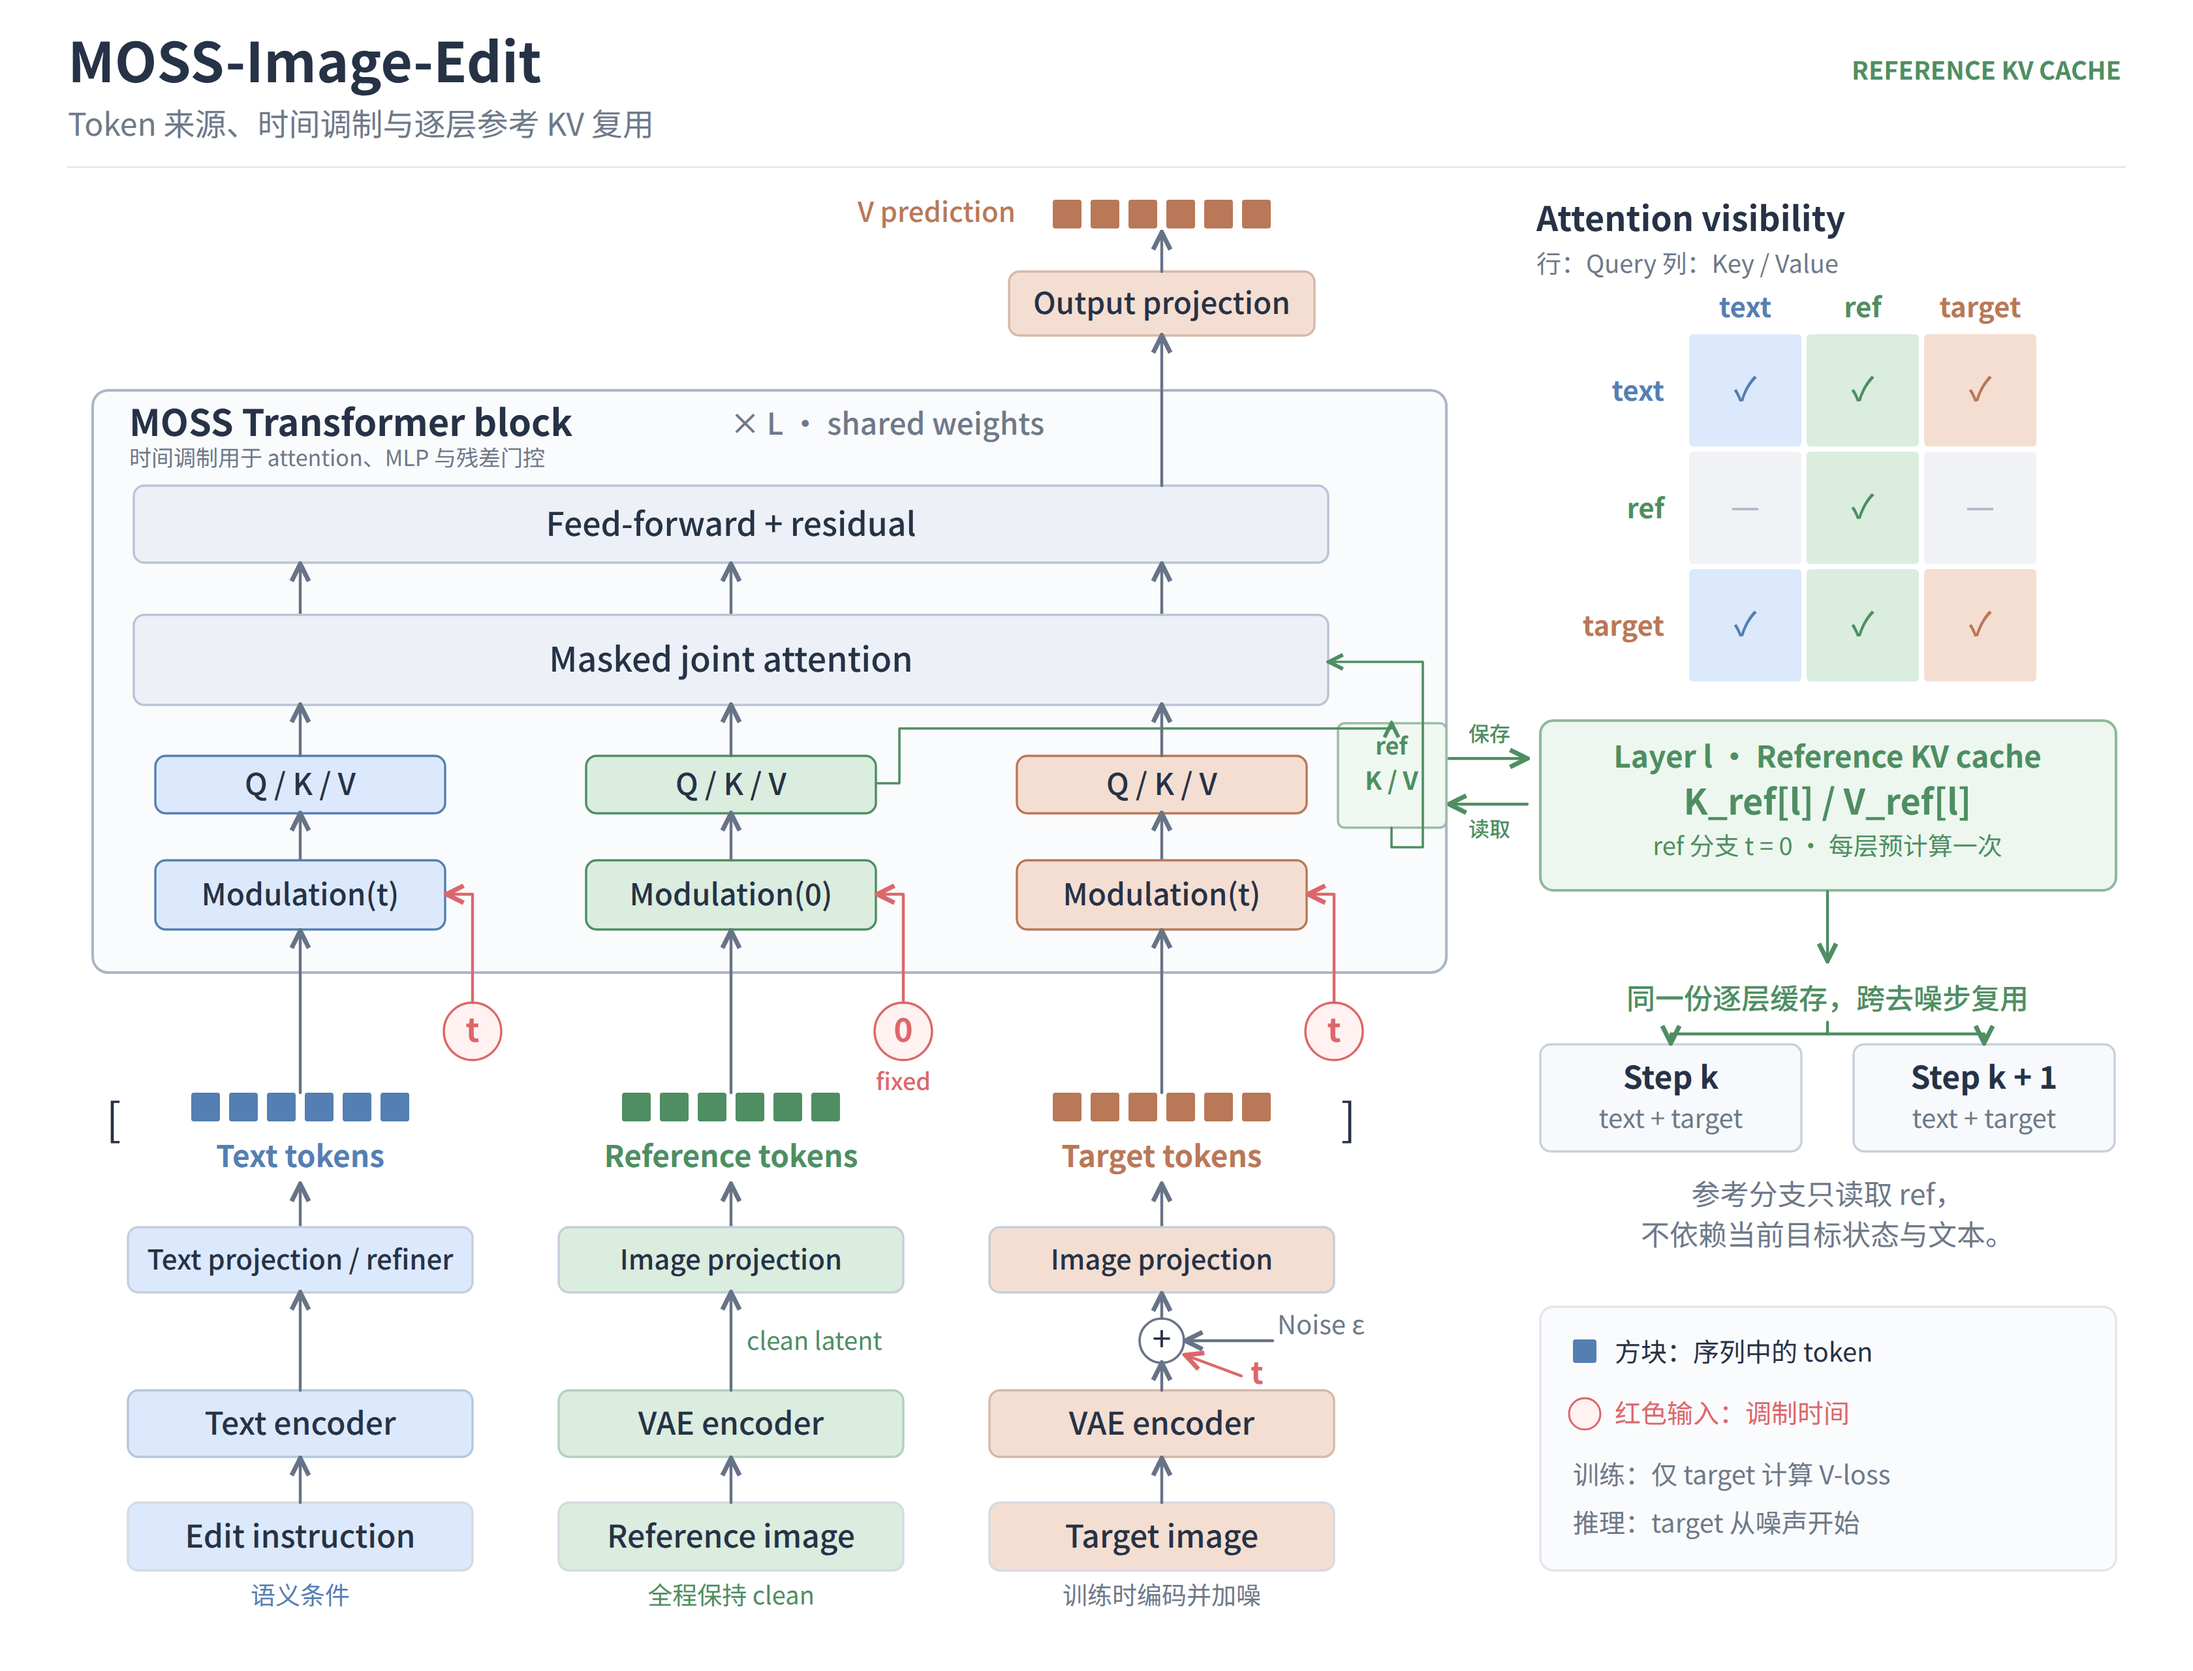
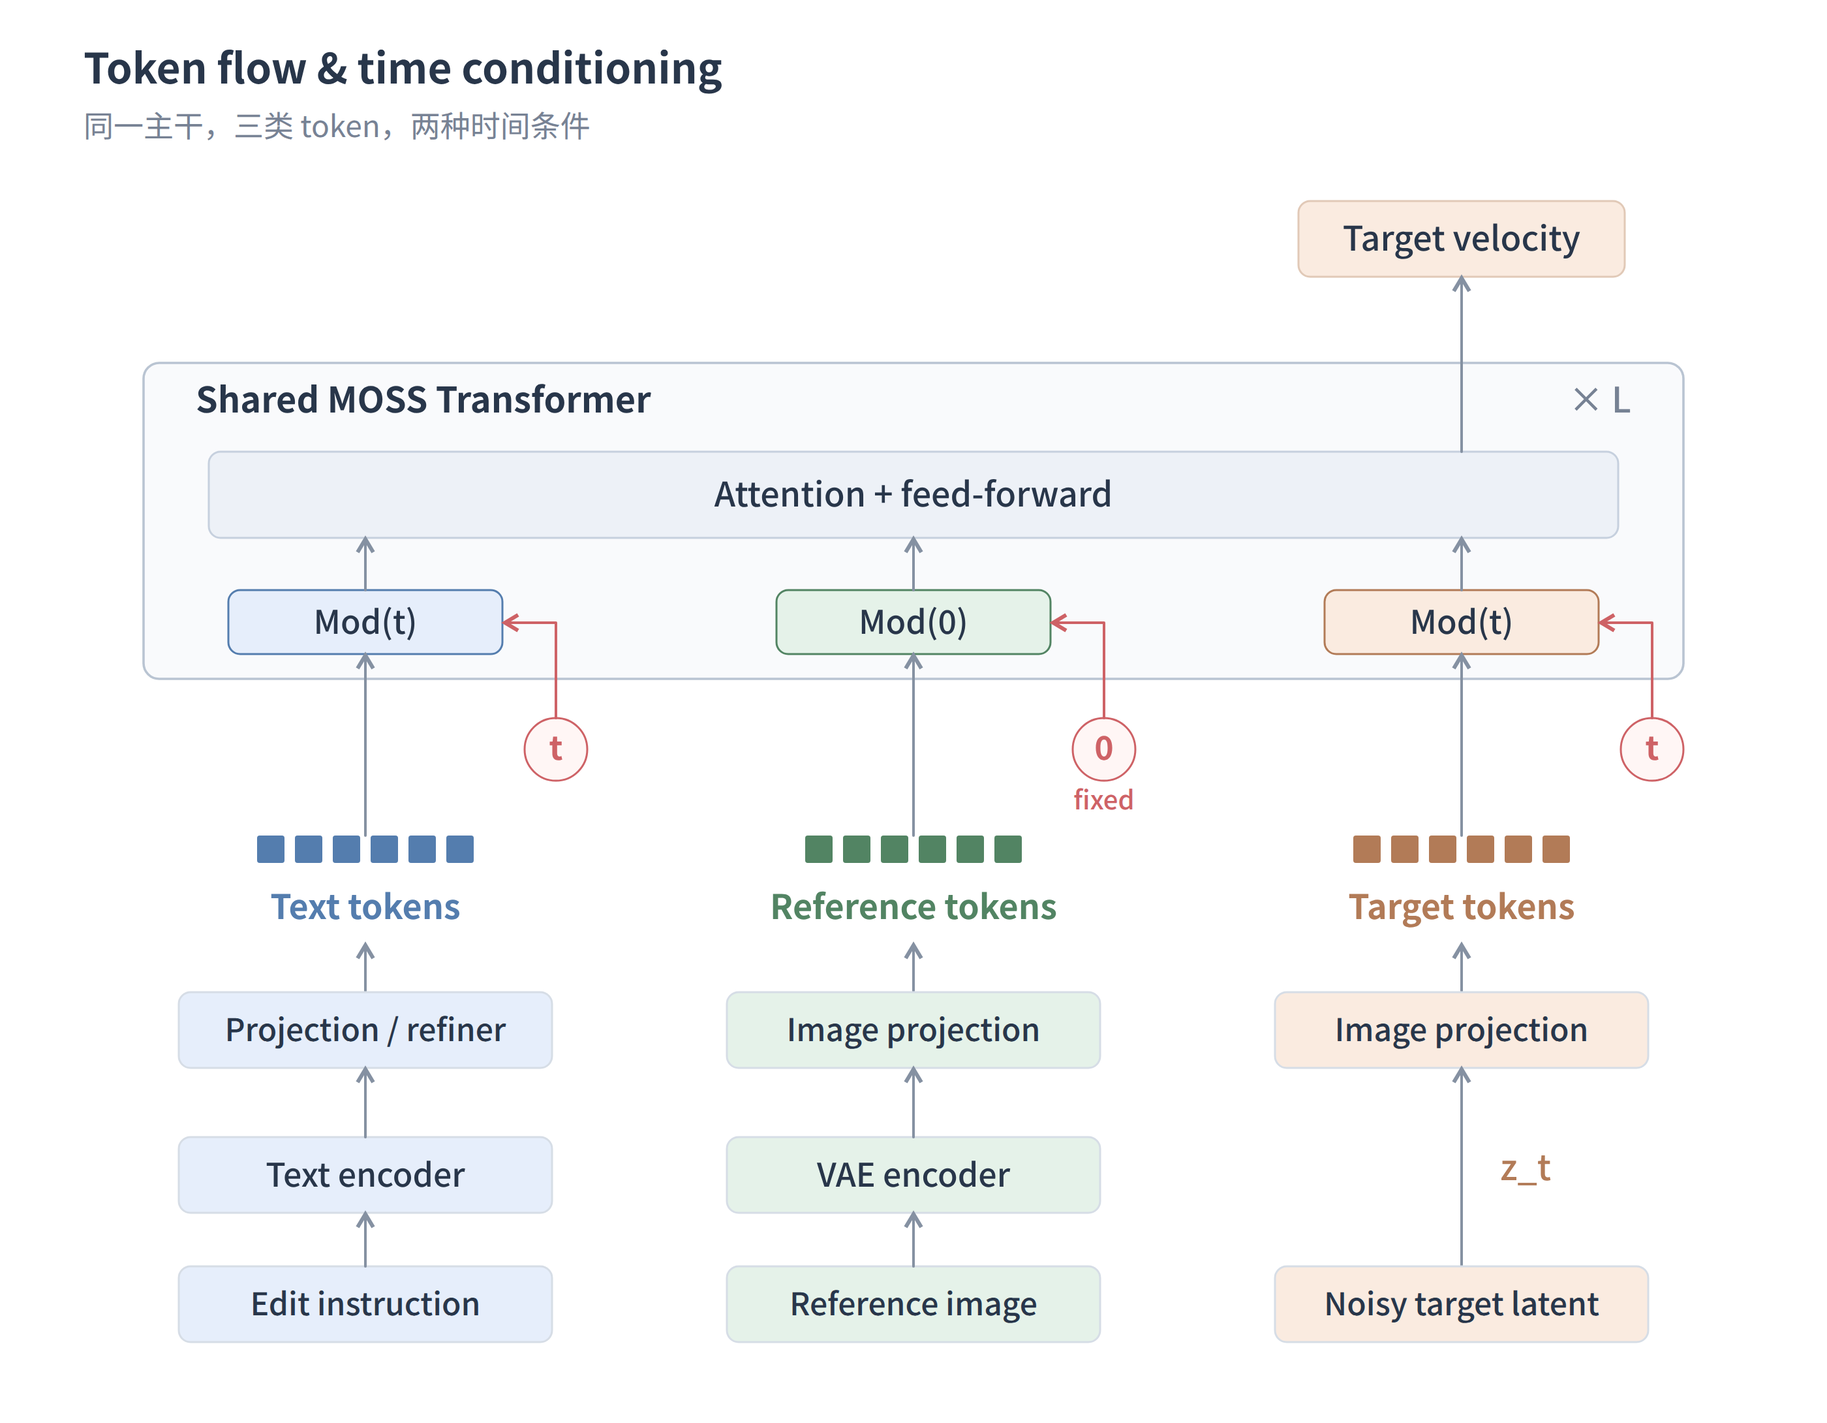
Separate token flow and KV cache diagrams with more whitespace

diff --git a/README.md b/README.md
@@ -23,14 +23,20 @@
 图像编辑中，参考图在整个去噪过程中保持不变。我们让它的**逐层特征也保持不变**：ref 使用固定时间调制，只读取 ref；text 与 target 沿用当前时间调制，并读取参考图提供的 K/V。
 
 <p align="center">
-  <img src="assets/kv-cache-architecture.png" alt="MOSS-Image-Edit 数据流：文本编码、参考图 VAE 编码、目标图 VAE 编码与加噪分别形成蓝、绿、橙三类 token；红色时间输入按 t、0、t 调制共享 Transformer。ref 只读取 ref，并将每层 K/V 保存为缓存，供后续去噪步读取。" width="1680">
+  <img src="assets/kv-cache-architecture.png" alt="Token 与时间输入：文本、参考图、加噪目标 latent 分别形成 text、ref、target token，使用 t、0、t 调制共享的 MOSS Transformer。" width="1400">
 </p>
 
 <p align="center"><sub><a href="assets/kv-cache-architecture.png">查看高清图</a> · <a href="assets/kv-cache-architecture.svg">SVG 源图</a></sub></p>
 
-图中方块按 `[text, ref, target]` 排列，颜色贯穿各自的编码与处理路径。红色输入标出每类 token 使用的调制时间；右侧展示注意力可见关系，以及逐层参考 K/V 的保存和复用。
+三列依次是 `[text, ref, target]`，红色输入标出各自的调制时间。target 的输入是当前去噪步的加噪 latent。
 
 **时间调制分离。** 两条数据流共享 MOSS 主干权重。ref 的时间固定为 `0`，通过时间网络得到固定的 shift、scale 和 gate；text 与 target 使用当前 `t`，随去噪步骤更新调制。
+
+<p align="center">
+  <img src="assets/reference-kv-cache.png" alt="注意力与缓存：ref query 只读取 ref，text 和 target query 读取全部 token。参考分支在 t=0 时计算一次，为每层保存 K/V，后续去噪步读取对应层的缓存。" width="1400">
+</p>
+
+<p align="center"><sub><a href="assets/reference-kv-cache.png">查看缓存示意图</a> · <a href="assets/reference-kv-cache.svg">SVG 源图</a></sub></p>
 
 **注意力隔离。** token 顺序为 `[text, ref, target]`。ref 的 query 只访问 ref 的 key/value；text 和 target 的 query 可以访问全部 token。这样，ref 的隐藏状态只依赖参考图本身，text 与 target 仍然可以充分利用参考信息。
 
